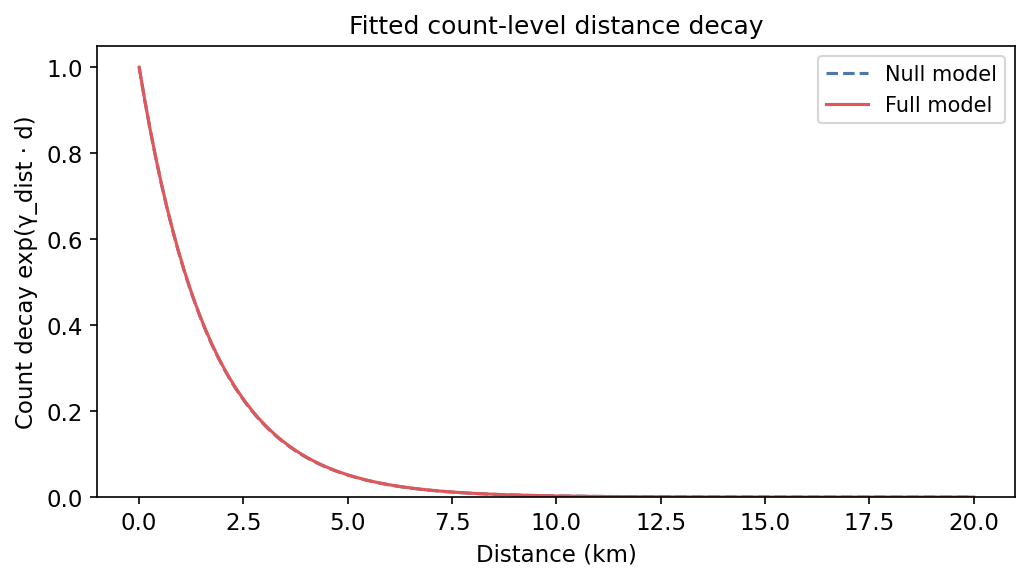
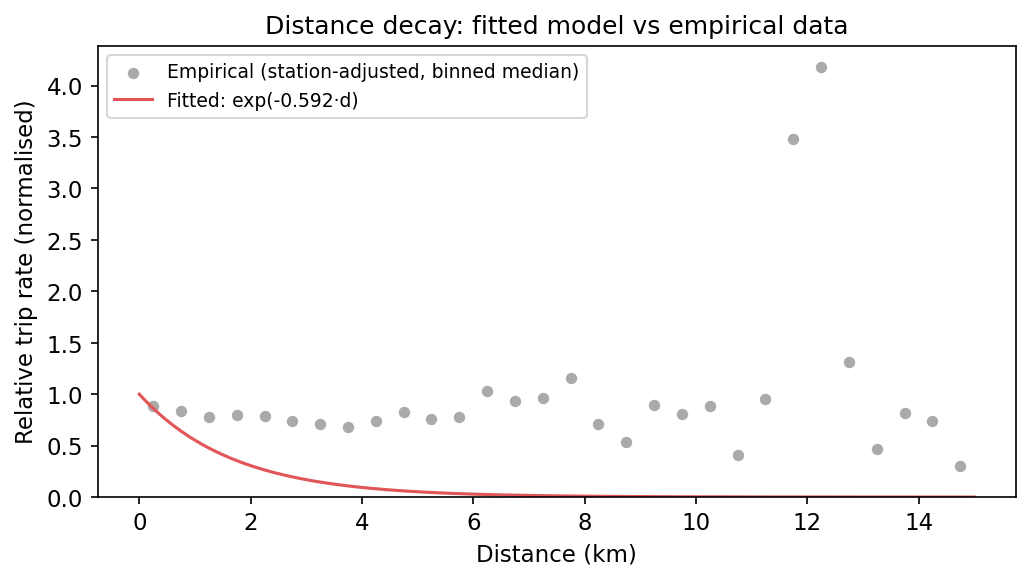
Improve convergence and distance-decay figures
fig1: two-panel layout — absolute NLL left, convergence gap (NLL−NLL*)
on log scale right, so both models' descent rates are clearly visible.

fig4: replace overlapping null/full curves with fitted curve overlaid on
binned empirical station-adjusted trip rates, showing model fit to data.

diff --git a/scripts/report.py b/scripts/report.py
@@ -95,17 +95,35 @@ def savefig(fig, path: Path, **kw):
 # ─────────────────────────────────────────────────────────────────────────────
 
 def fig_convergence(null_result, full_result, out_dir: Path):
-    fig, ax = plt.subplots(figsize=(8, 4))
+    fig, axes = plt.subplots(1, 2, figsize=(11, 4))
+
+    # Left: absolute NLL (shows the two models' final levels)
+    ax = axes[0]
     for lbl, res in [("null", null_result), ("full", full_result)]:
         h = np.array(res.nll_history)
-        ax.plot(np.arange(1, len(h) + 1), h, **STYLE[lbl])
-
+        ax.plot(np.arange(1, len(h) + 1), h / 1e6, **STYLE[lbl])
     ax.set_xlabel("Function evaluation")
-    ax.set_ylabel("Negative log-likelihood")
-    ax.set_title("L-BFGS-B training convergence")
+    ax.set_ylabel("NLL (×10⁶)")
+    ax.set_title("Training NLL (absolute)")
     ax.legend()
-    ax.set_yscale("log")
     ax.xaxis.set_major_formatter(mticker.FuncFormatter(lambda x, _: f"{x:,.0f}"))
+
+    # Right: convergence gap  NLL_t - NLL_final  on log scale
+    ax = axes[1]
+    for lbl, res in [("null", null_result), ("full", full_result)]:
+        h = np.array(res.nll_history)
+        gap = h - h.min()
+        # Keep only points where gap > 0 to avoid log(0)
+        pos = gap > 0
+        ax.plot(np.where(pos)[0] + 1, gap[pos], **STYLE[lbl])
+    ax.set_xlabel("Function evaluation")
+    ax.set_ylabel("NLL − NLL* (convergence gap)")
+    ax.set_title("Convergence rate (log scale)")
+    ax.set_yscale("log")
+    ax.legend()
+    ax.xaxis.set_major_formatter(mticker.FuncFormatter(lambda x, _: f"{x:,.0f}"))
+
+    fig.suptitle("L-BFGS-B training convergence", fontsize=12)
     fig.tight_layout()
     savefig(fig, out_dir / "fig1_convergence.png", dpi=150)
 
@@ -203,20 +221,56 @@ def fig_temporal_effects(full_result, out_dir: Path):
 # Figure 4: Distance decay
 # ─────────────────────────────────────────────────────────────────────────────
 
-def fig_distance_decay(null_result, full_result, out_dir: Path):
-    fig, ax = plt.subplots(figsize=(7, 4))
-    d_range = np.linspace(0, 20, 300)
+def fig_distance_decay(full_result, full_train: PoissonData, out_dir: Path):
+    """Fitted distance-decay curve vs empirical station-adjusted trip rates."""
+    ly    = full_result.layout
+    theta = full_result.theta
+    alpha = ly.alpha(theta)
+    beta  = ly.beta(theta)
 
-    for lbl, res in [("null", null_result), ("full", full_result)]:
-        g_dist = res.layout.gamma_dist(res.theta)
-        ax.plot(d_range, np.exp(g_dist * d_range), **STYLE[lbl])
+    # Per-OD-pair empirical counts, adjusted for station effects so only
+    # the distance component remains: N_ij / exp(α_i + β_j)
+    log_station = alpha[full_train.orig] + beta[full_train.dest]
+    adjusted    = full_train.counts / np.exp(log_station)
+
+    # Bin by distance in 0.5 km bins up to 15 km
+    d_obs  = full_train.dist_obs
+    mask   = (d_obs > 0) & (d_obs <= 15)
+    d_bin  = np.floor(d_obs[mask] / 0.5).astype(int)  # bin index
+    n_bins = int(d_bin.max()) + 1
+    bin_median = np.array([
+        np.median(adjusted[mask][d_bin == b]) if (d_bin == b).any() else np.nan
+        for b in range(n_bins)
+    ])
+    bin_centers = (np.arange(n_bins) + 0.5) * 0.5
+    valid = np.isfinite(bin_median) & (bin_median > 0)
+
+    # Normalise so both empirical and fitted curves start at 1 near d=0
+    ref_bin = 0
+    while ref_bin < len(bin_median) and not valid[ref_bin]:
+        ref_bin += 1
+    if ref_bin >= len(bin_median):
+        ref_bin = 0
+
+    g_dist = ly.gamma_dist(theta)
+    d_range = np.linspace(0, 15, 300)
+    fitted = np.exp(g_dist * d_range)
+    # Scale empirical to align with fitted at ref bin centre
+    scale = fitted[int(bin_centers[ref_bin] / 15 * 299)] / bin_median[ref_bin] \
+            if bin_median[ref_bin] > 0 else 1.0
+
+    fig, ax = plt.subplots(figsize=(7, 4))
+    ax.scatter(bin_centers[valid], bin_median[valid] * scale,
+               s=20, color="#aaaaaa", zorder=2,
+               label="Empirical (station-adjusted, binned median)")
+    style = {**STYLE["full"], "label": f"Fitted: exp({g_dist:.3f}·d)"}
+    ax.plot(d_range, fitted, **style)
 
     ax.set_xlabel("Distance (km)")
-    ax.set_ylabel("Count decay exp(γ_dist · d)")
-    ax.set_title("Fitted count-level distance decay")
-    ax.legend()
+    ax.set_ylabel("Relative trip rate (normalised)")
+    ax.set_title("Distance decay: fitted model vs empirical data")
+    ax.legend(fontsize=9)
     ax.set_ylim(bottom=0)
-
     fig.tight_layout()
     savefig(fig, out_dir / "fig4_distance_decay.png", dpi=150)
 
@@ -432,8 +486,8 @@ def main():
     print("  fig3 – temporal fixed effects")
     fig_temporal_effects(full_result, out_dir)
 
-    print("  fig4 – distance decay")
-    fig_distance_decay(null_result, full_result, out_dir)
+    print("  fig4 – distance decay vs empirical")
+    fig_distance_decay(full_result, full_train, out_dir)
 
     print("  fig5 – feature importance")
     fig_importance(full_result, full_train, null_result, null_train,